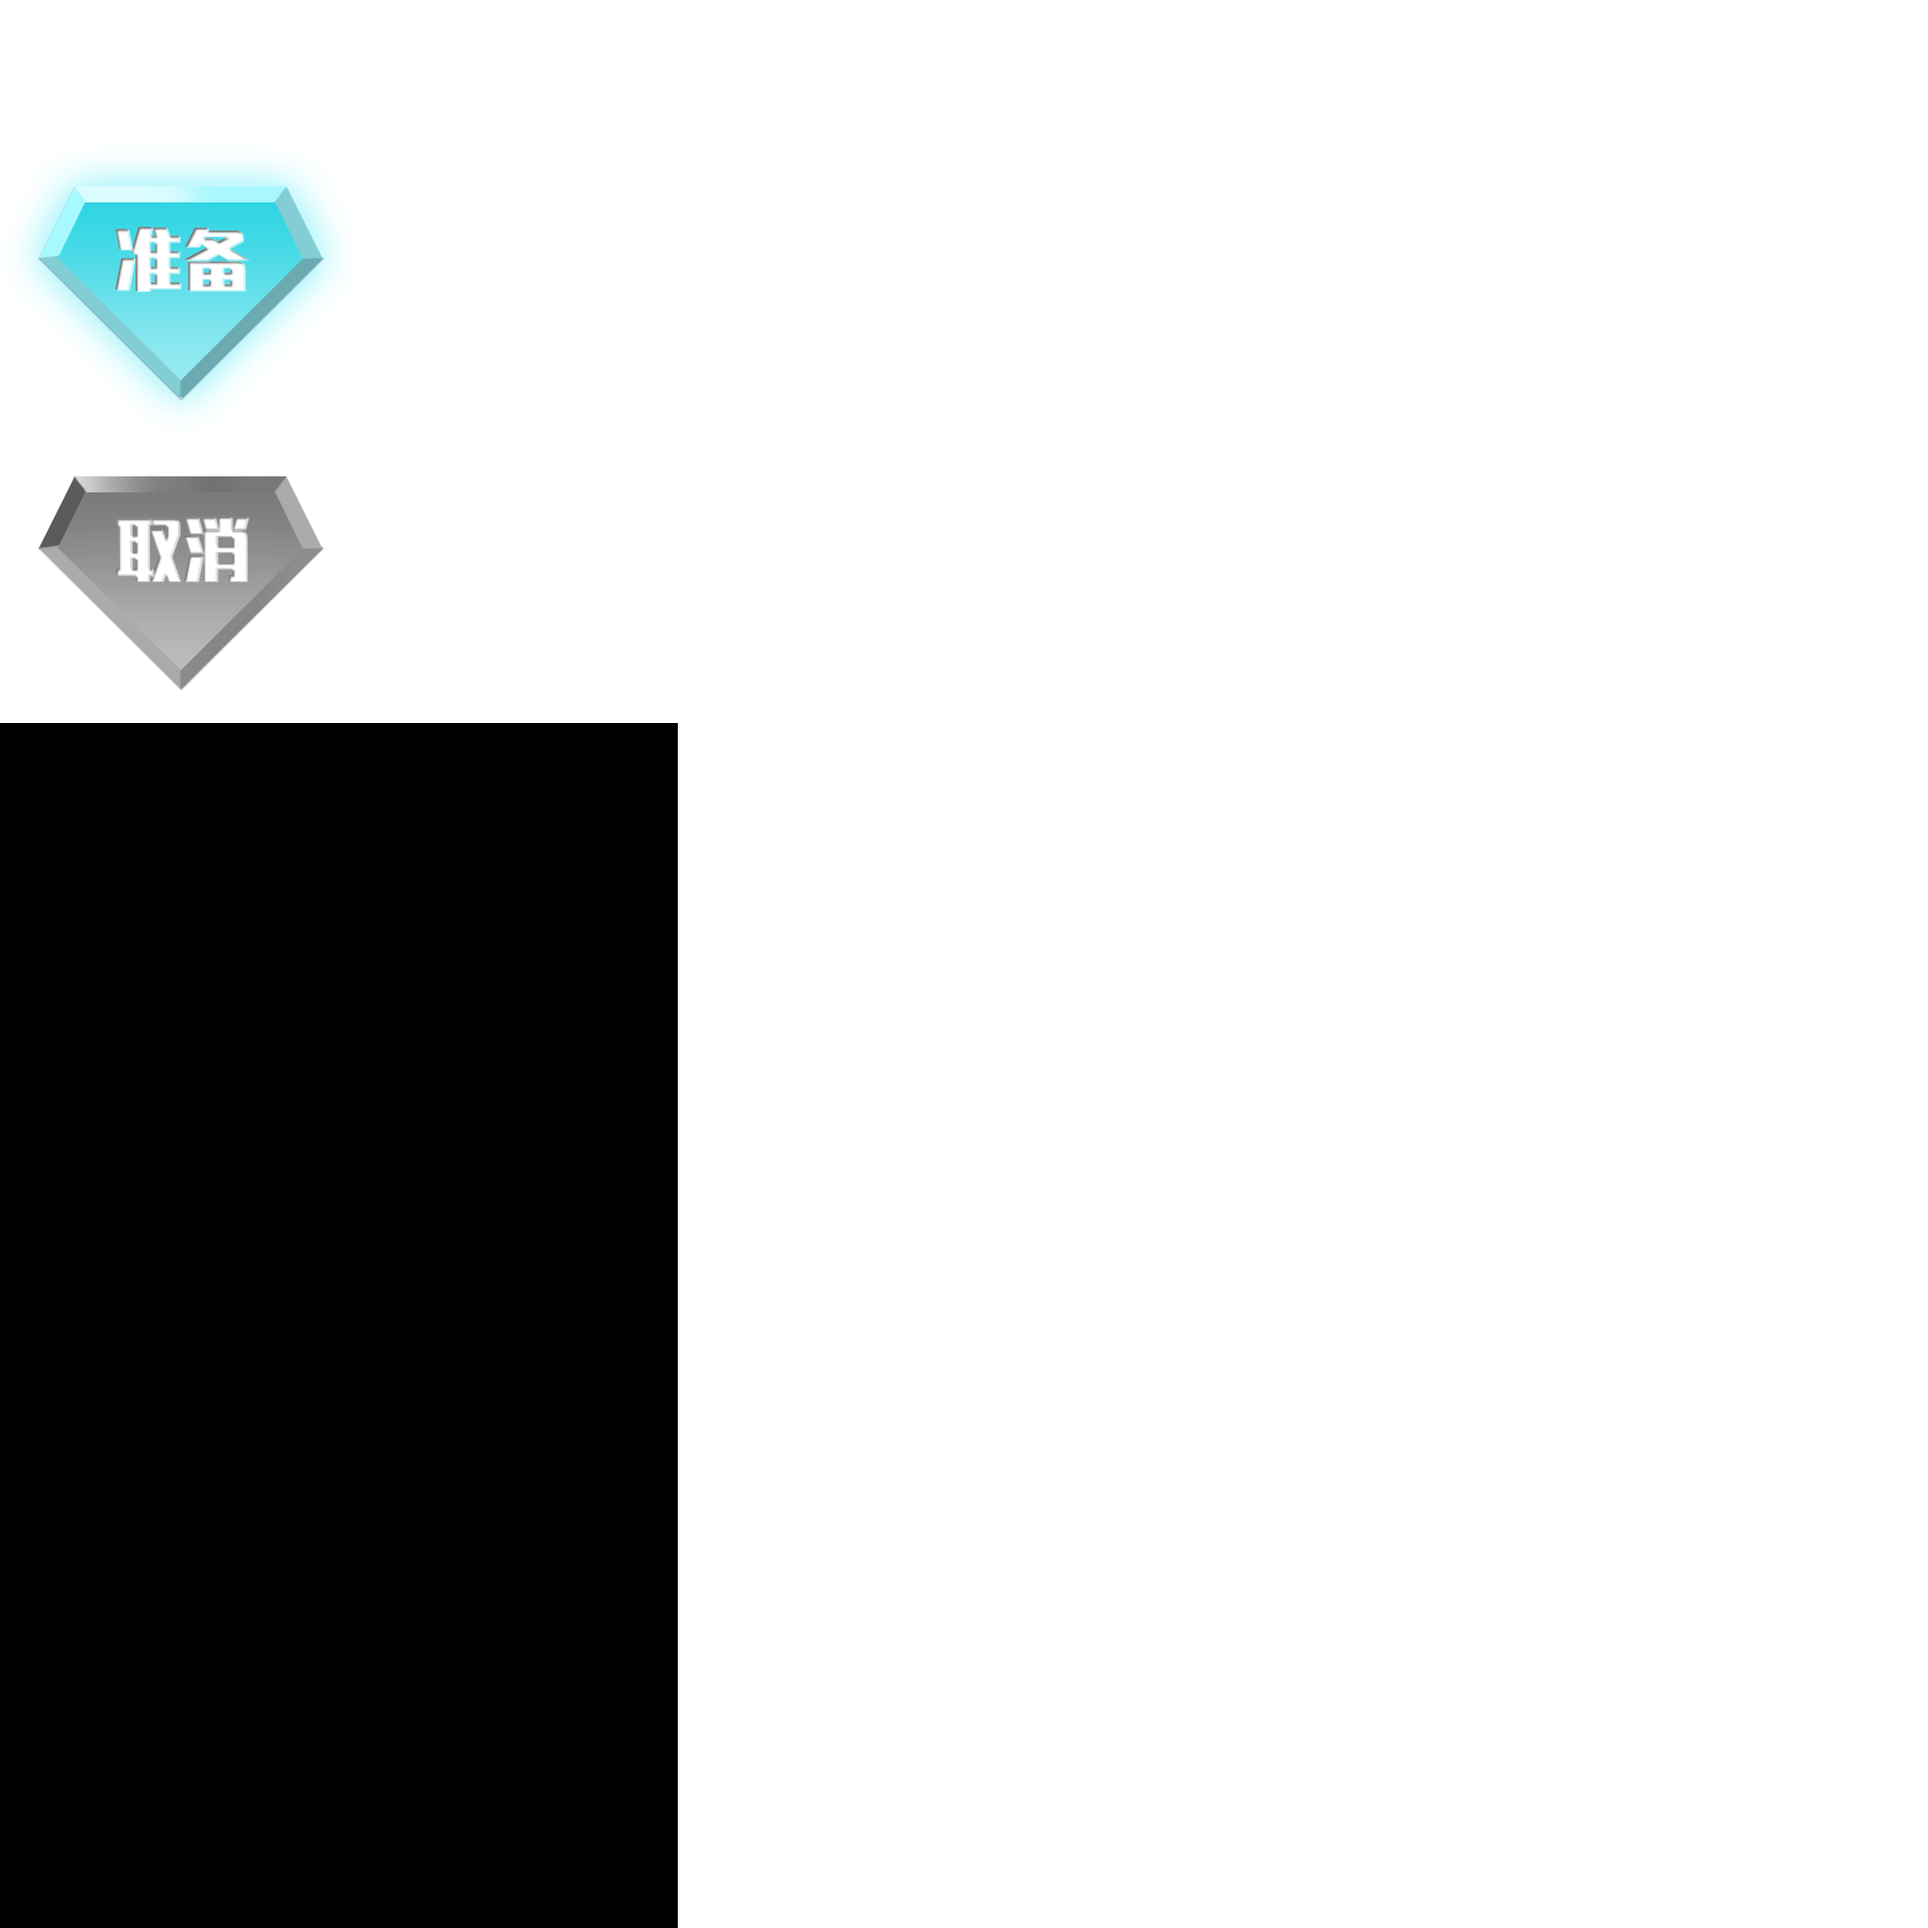
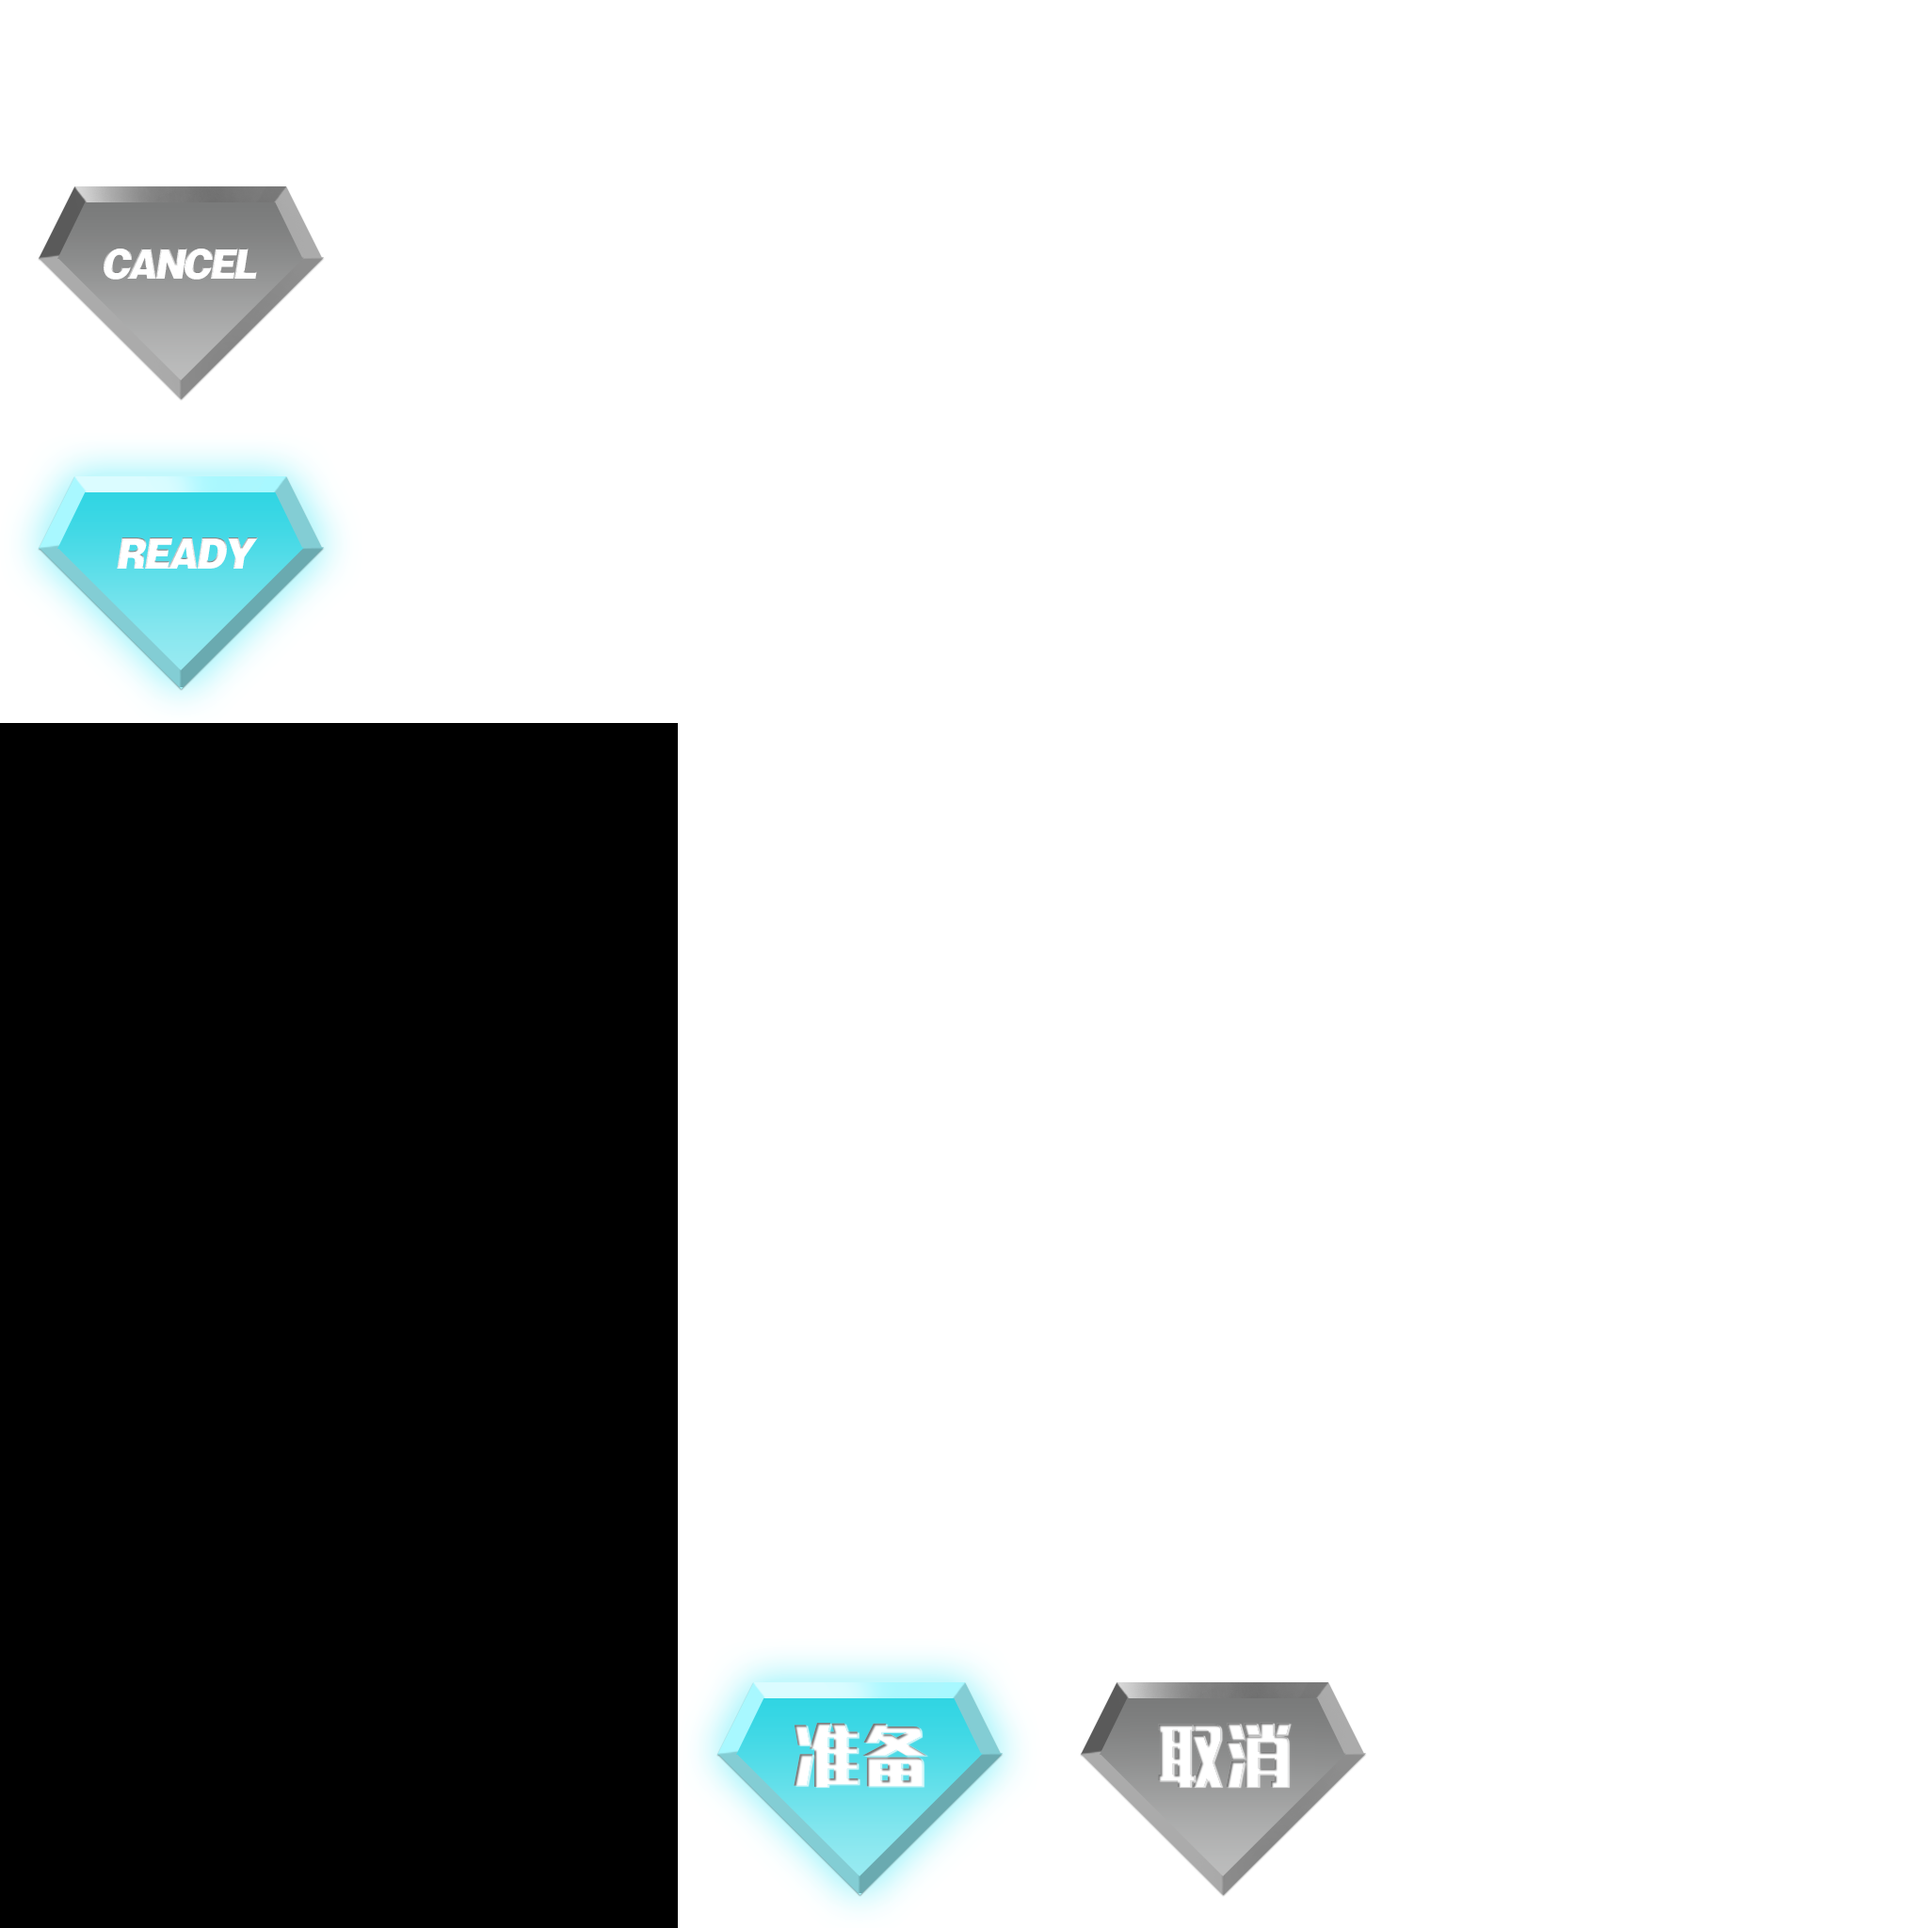
NGUI Localize 예제

Changed region(s): [[0.0, 0.0625, 0.1875, 0.375], [0.3438, 0.8438, 0.5312, 1.0], [0.5625, 0.875, 0.7188, 1.0]]

diff --git a/Assets/GameParty/LocalizeHelper/NGUI_ImageLocalize.cs b/Assets/GameParty/LocalizeHelper/NGUI_ImageLocalize.cs
@@ -1,0 +1,64 @@
+using UnityEngine;
+using System.Collections;
+
+public class NGUI_ImageLocalize : MonoBehaviour {
+	[SerializeField]
+	public string English;
+
+	[SerializeField]
+	public string Chinese;
+
+	[SerializeField]
+	public string Korean;
+
+	private bool isWorkOK = true;
+
+	private CommonLang commonLang;
+
+
+	void Awake(){
+		if (string.IsNullOrEmpty(English)) {
+			isWorkOK = false;
+			return;
+		}
+
+		if (string.IsNullOrEmpty(Chinese)) {
+			Chinese = English;
+		}
+
+		if (string.IsNullOrEmpty(Korean)) {
+			Korean = English;
+		}
+
+		commonLang = CommonLang.instance;
+	}
+
+	// Use this for initialization
+	void Start () {
+		commonLang.OnLanaugeChange += OnLanguageChange;
+		OnLanguageChange ();
+	}
+
+	void OnDestroy(){
+		commonLang.OnLanaugeChange -= OnLanguageChange;
+	}
+	
+	private void OnLanguageChange(){
+		if (isWorkOK) {
+			string target = "";
+			switch (commonLang.Language) {
+			case LanguageType.CHI:
+				target = Chinese;
+				break;
+			case LanguageType.KOR:
+				target = Korean;
+				break;
+			case LanguageType.ENG:
+				target = English;
+				break;
+			}
+
+			gameObject.GetComponent<UISprite> ().spriteName = target;	
+		}
+	}
+}
